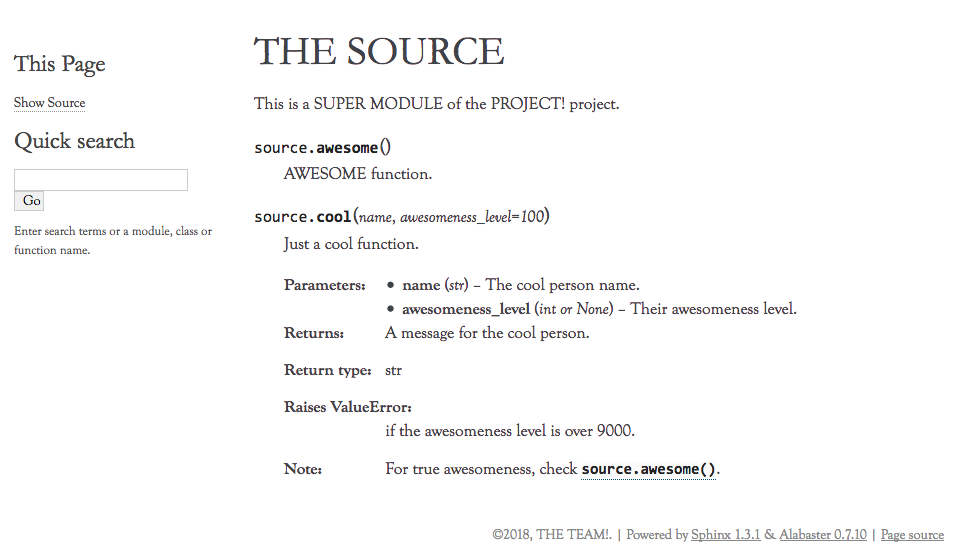
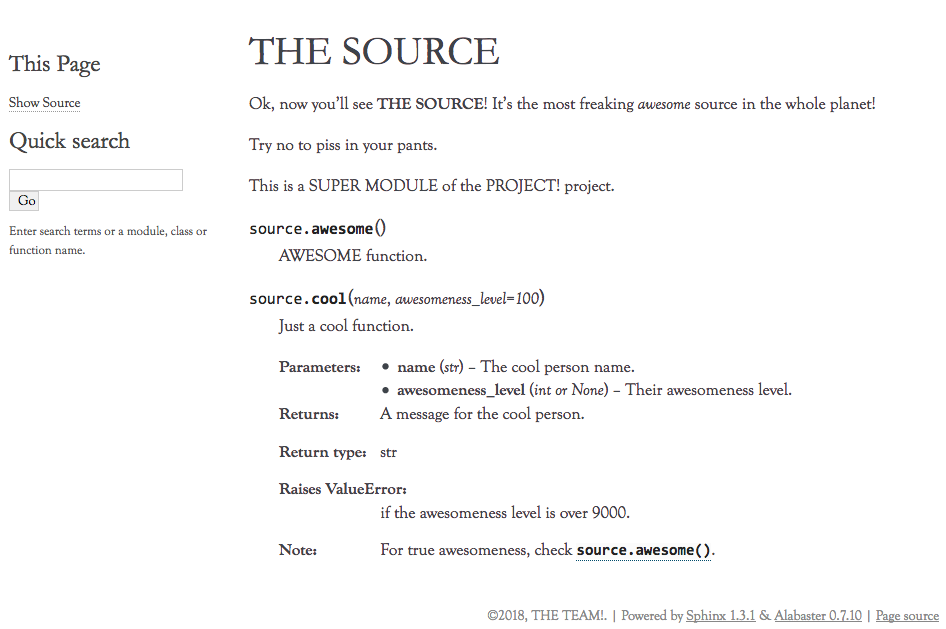
added a mix in the sphinx presentation

diff --git a/sphinx.html b/sphinx.html
@@ -415,6 +415,11 @@ sys.path.insert(0, os.path.abspath('../../src'))</code></pre>
 .. .. autofunction:: source.awesome
 .. .. autofunction:: source.cool
 
+Ok, now you'll see **THE SOURCE**! It's the most freaking *awesome* source in
+the whole planet! 
+
+Try no to piss in your pants.
+
 .. automodule:: source
    :members:</code></pre>
 						</p>
